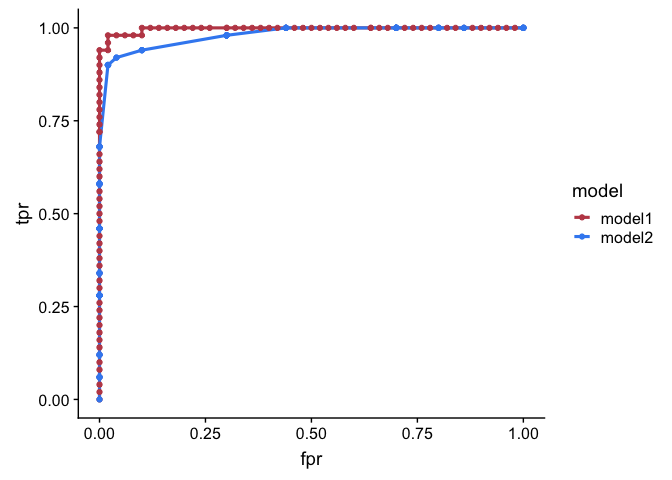
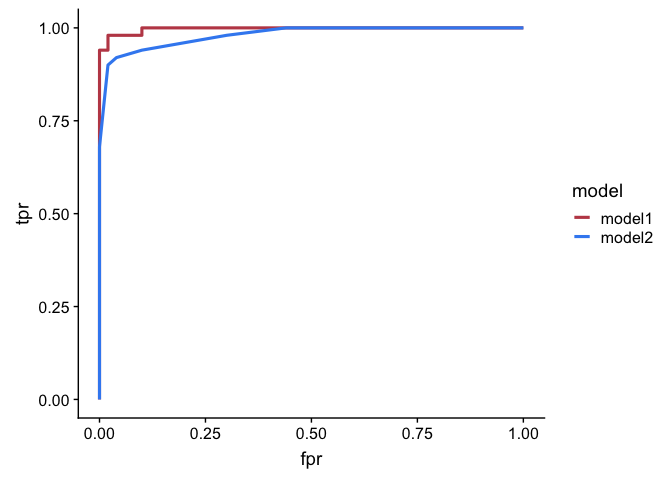
fixing a plot

diff --git a/README.md b/README.md
@@ -61,7 +61,6 @@ Examples
       make_roc(predictor = .fitted, known_class = Species) %>% # get values to plot an ROC curve
       ggplot(aes(x = fpr, y = tpr, color = model)) +
       geom_line(size = 1.1) +
-      geom_point() +
       scale_color_manual(values = c("#C04A56", "#3D8CF1")) +
       theme_cowplot()
 
